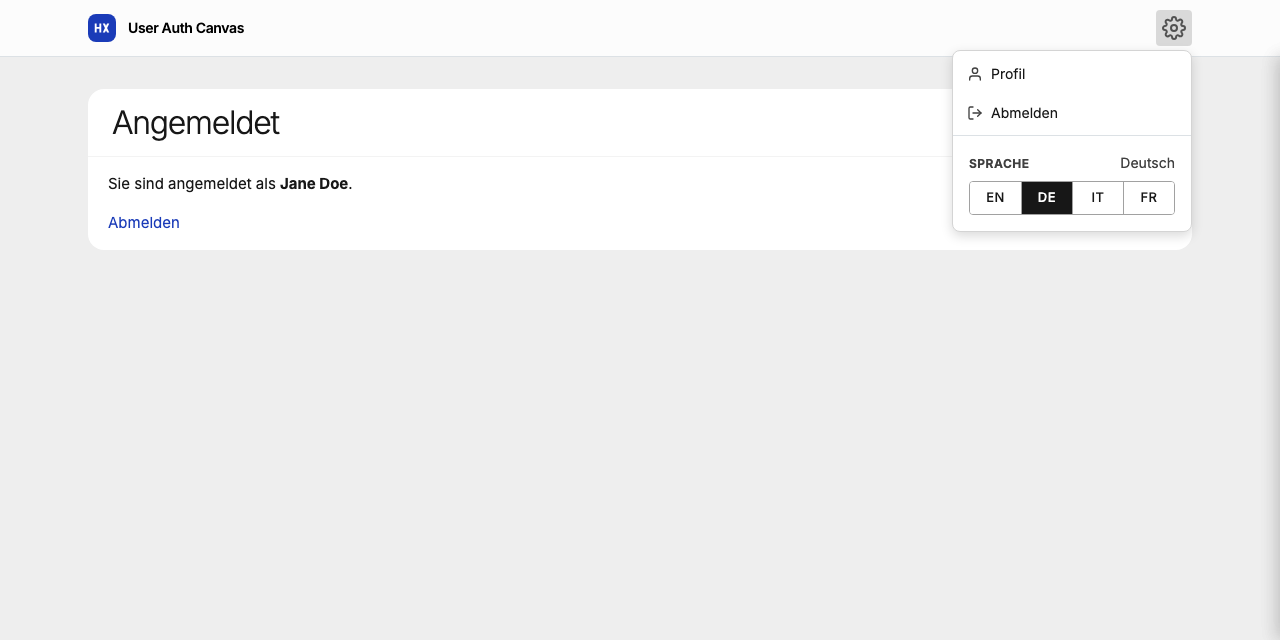
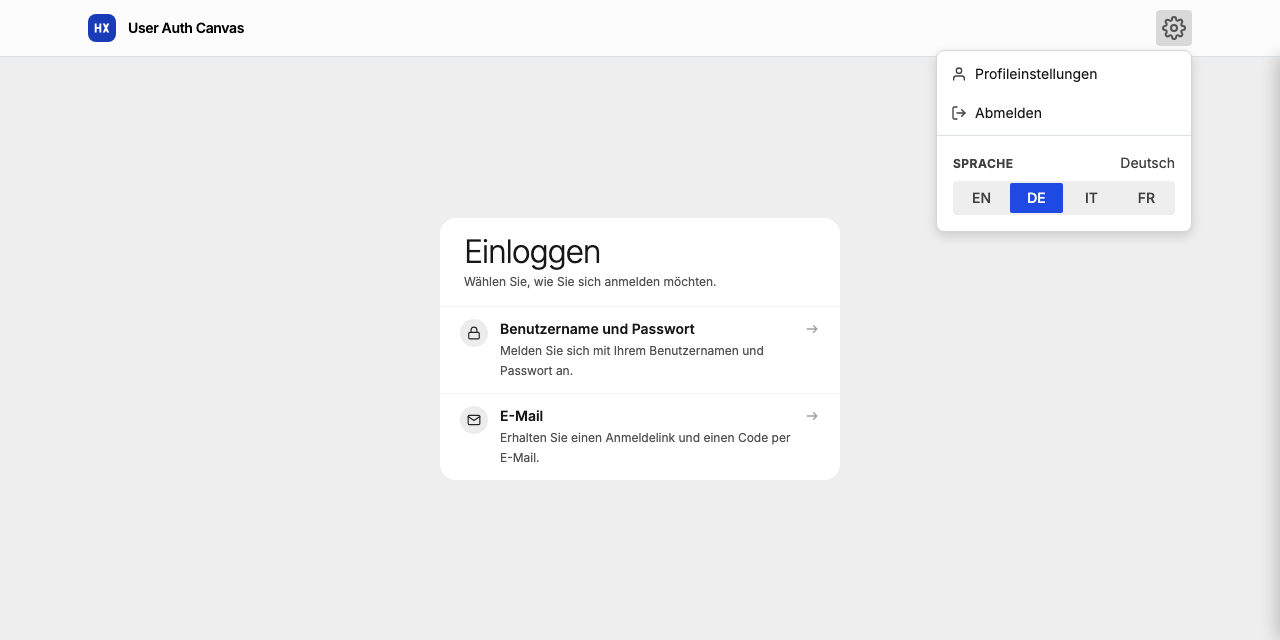
refactor(page-templates): language entry uses segment_control; plain link entries in the sample (T-005)

diff --git a/src/pyhx/static/css/pyhx/components/layout/settings-menu.css b/src/pyhx/static/css/pyhx/components/layout/settings-menu.css
@@ -72,7 +72,7 @@
     flex-direction: column;
 
     /* Box */
-    width: 15rem;
+    width: 16rem;
     border: var(--hx-border-width-sm) solid var(--hx-color-neutral-300);
     border-radius: var(--hx-radius-lg);
 
@@ -184,68 +184,6 @@
     }
 }
 
-/* The choices: a segmented row, one equal column per option. */
-.hx-settings-menu__choices {
-    /* Layout */
-    display: grid;
-    grid-auto-columns: minmax(0, 1fr);
-    grid-auto-flow: column;
-
-    /* Box */
-    margin: 0;
-    border: var(--hx-border-width-sm) solid var(--hx-color-neutral-400);
-    border-radius: var(--hx-radius-md);
-    overflow: hidden;
-
-    & > button {
-        /* Box */
-        width: auto;
-        height: 2rem;
-        margin: 0;
-        padding: 0;
-        border: 0;
-        border-left: var(--hx-border-width-sm) solid var(--hx-color-neutral-400);
-        border-radius: 0;
-
-        /* Typography */
-        font-size: 0.8125rem;
-        font-weight: 500;
-        letter-spacing: 0.04em;
-        color: var(--hx-color-text);
-
-        /* Visual */
-        background-color: var(--hx-color-background);
-        box-shadow: none;
-
-        /* Interaction */
-        cursor: pointer;
-
-        &:first-of-type {
-            /* Box */
-            border-left: 0;
-        }
-
-        &:hover {
-            /* Visual */
-            background-color: var(--hx-color-neutral-100);
-        }
-
-        &:focus-visible {
-            /* Visual */
-            outline: 2px solid var(--hx-color-primary-focus);
-            outline-offset: -2px;
-        }
-
-        &[aria-pressed="true"] {
-            /* Typography */
-            color: var(--hx-color-white);
-
-            /* Visual */
-            background-color: var(--hx-color-primary);
-        }
-    }
-}
-
 /* --- Responsive --- */
 
 /* On a phone the dropdown spans the width below the header. */
@@ -261,18 +199,5 @@
         width: auto;
         border-width: 0 0 var(--hx-border-width-sm);
         border-radius: 0;
-    }
-
-    .hx-settings-menu__choices > button {
-        /* Box */
-        height: 2.75rem;
-    }
-}
-
-/* Touch input: targets of at least 44px, also on larger screens. */
-@media (pointer: coarse) {
-    .hx-settings-menu__choices > button {
-        /* Box */
-        height: 2.75rem;
     }
 }

diff --git a/src/pyhx/static/css/page-templates/canvas-shell.css b/src/pyhx/static/css/page-templates/canvas-shell.css
@@ -99,12 +99,6 @@
             color: var(--hx-color-neutral-600);
         }
 
-        /* The current language like the active tab: near-black. */
-        .hx-settings-menu__choices > button[aria-pressed="true"] {
-            /* Visual */
-            background-color: var(--hx-color-neutral-900);
-        }
-
         .hx-canvas-shell__header-content {
             /* Layout */
             display: flex;

diff --git a/src/pyhx/static/css/page-templates/app-shell.css b/src/pyhx/static/css/page-templates/app-shell.css
@@ -184,7 +184,7 @@
         /* --- Menu button --- */
 
         /* Not the buttons inside the settings menu's dropdown: they are
-           styled by the menu itself. */
+           styled by their own components. */
         .hx-menu-button,
         & > header button:not(.hx-settings-menu__panel *),
         & > header a[role="button"] {

diff --git a/src/pyhx/page_templates/settings_menu.py b/src/pyhx/page_templates/settings_menu.py
@@ -7,6 +7,8 @@ from typing import Protocol
 import htpy as y
 
 from pyhx.components.primitives.icon import icon
+from pyhx.components.primitives.segment_control import segment_control
+from pyhx.components.view_model import Option
 from pyhx.core.primitives import IconName
 from pyhx.core.primitives.lazy_text import Text
 from pyhx.i18n import _, locale_switch
@@ -78,8 +80,9 @@ class LanguageSetting:
     """Settings entry: the language of the app.
 
     Shows the offered languages (``[app.pyhx.core] supported_locales``) as
-    codes (EN | DE | IT | FR), the current one highlighted and written out
-    above. Choosing one posts to ``/_pyhx/locale`` (see
+    codes (EN | DE | IT | FR) in a ``segment_control``, the current one
+    selected and written out above. Choosing one posts to ``/_pyhx/locale``
+    (htmx, on change) (see
     :func:`pyhx.i18n.locale_switch`), which stores it in the session and, for
     a signed-in registered user, on the user, then reloads the page.
 
@@ -99,23 +102,21 @@ class LanguageSetting:
                 y.span[current],
             ],
             y.form(
-                ".hx-settings-menu__choices",
                 method="post",
                 action=switch.action,
                 hx_post=switch.action,
+                hx_trigger="change",
             )[
                 y.input(type="hidden", name="next", value=switch.next),
-                [
-                    y.button(
-                        type="submit",
-                        name="locale",
-                        value=option.locale,
-                        lang=option.locale,
-                        title=option.name,
-                        aria_pressed="true" if option.current else "false",
-                    )[option.locale.split("-")[0].upper()]
-                    for option in switch.options
-                ],
+                segment_control(
+                    "locale",
+                    [
+                        Option(label=o.locale.split("-")[0].upper(), value=o.locale)
+                        for o in switch.options
+                    ],
+                    value=next((o.locale for o in switch.options if o.current), None),
+                    aria_labelledby="hx-settings-language",
+                ),
             ],
         ]
 

diff --git a/samples/user_auth/main.py b/samples/user_auth/main.py
@@ -25,8 +25,8 @@ of a request is the one chosen in the session, else the signed-in user's,
 else the browser's, else English. Try it:
 
 - As an anonymous visitor, switch the language in the settings menu (the gear
-  in the header: ``settings=[account_links, LanguageSetting()]``; the account
-  links, Profile and Sign out, appear once signed in): it is
+  in the header: ``settings=[ACCOUNT_LINKS, LanguageSetting()]``, with plain
+  link entries above the language): it is
   kept in the session only (open a private window: English or your browser's
   language again).
 - Sign in as ``jane`` and switch: the language is also stored on the user, so
@@ -105,18 +105,16 @@ def _build_users_repo() -> SQLUsersRepository:
 users = _build_users_repo()
 
 
-def account_links() -> y.Node:
-    """Settings entry of the sample: profile and sign-out, for signed-in users only."""
-    if isinstance(require_user(), AnonymousUser):
-        return None
-    return SettingsLinks(
-        SettingsLink(_l("Profile"), "/profile", icon="user"),
-        SettingsLink(_l("Sign out"), "/logout", icon="log-out"),
-    )()
+# Plain menu entries above the language (no functionality of their own:
+# "Profile settings" opens the profile page, "Sign out" signs out).
+ACCOUNT_LINKS = SettingsLinks(
+    SettingsLink(_l("Profile settings"), "/profile", icon="user"),
+    SettingsLink(_l("Sign out"), "/logout", icon="log-out"),
+)
 
 
 # The settings menu (gear in the header): account links above the language.
-SETTINGS = [account_links, LanguageSetting()]
+SETTINGS = [ACCOUNT_LINKS, LanguageSetting()]
 
 hx = WebApp(
     title="User Auth Sample",

diff --git a/tests/pyhx/page_templates/test_settings_menu.py b/tests/pyhx/page_templates/test_settings_menu.py
@@ -63,15 +63,13 @@ class TestSettingsMenu:
         assert 'aria-label="Einstellungen"' in page
         assert '<h2 id="hx-settings-language">Sprache</h2><span>Deutsch</span>' in page
         assert 'action="/_pyhx/locale"' in page and 'name="next" value="/"' in page
-        for code, name in (
-            ("en", "English"),
-            ("de", "Deutsch"),
-            ("it", "Italiano"),
-            ("fr", "Français"),
-        ):
-            assert f'value="{code}" lang="{code}" title="{name}"' in page
-        assert page.count('aria-pressed="true"') == 1
-        assert 'aria-pressed="true">DE</button>' in page
+        assert 'hx-trigger="change"' in page
+        assert "hx-segment-control--md" in page
+        assert 'aria-labelledby="hx-settings-language"' in page
+        for code in ("en", "de", "it", "fr"):
+            assert f'name="locale" value="{code}"' in page
+        assert page.count(" checked") == 1
+        assert 'value="de" checked><span>DE</span>' in page
 
     @pytest.mark.parametrize("make", TEMPLATES)
     def test_no_gear_without_settings(self, make):

diff --git a/tests/samples/user_auth/test_user_auth_languages.py b/tests/samples/user_auth/test_user_auth_languages.py
@@ -63,9 +63,8 @@ class TestAnonymous:
     def test_switcher_is_on_the_page(self):
         page = browser().get("/").text
 
-        assert all(
-            name in page for name in ("English", "Deutsch", "Italiano", "Français")
-        )
+        assert all(f"<span>{code}</span>" in page for code in ("EN", "DE", "IT", "FR"))
+        assert "Profile settings" in page
 
 
 class TestSignedIn:

diff --git a/changes/03--closed/T-005--multilingual-apps/spec.md b/changes/03--closed/T-005--multilingual-apps/spec.md
@@ -87,7 +87,7 @@ Implemented as specified, with these deviations and findings (from the plan, rem
 - **D3** Component parameters with English defaults default to `None` and get the translated default at render time (Boolean controls, taglist, dropdown and file dropzone placeholders, `drawer_action_table` title, `page_header` navigation label); `DataForm.submit_label` and the `DataFormDrawer` labels also accept a callable; the internal option tuples of `filter_options.py` became functions. Explicit values behave as before.
 - **D4** `safe_next` (now in `_session.py`, shared by login and switcher) also rejects `/\…`, which browsers read as a protocol-relative URL; this also closes it for the login redirect.
 - **D5** No switcher component: in the developer's review, a ready-made button row (`c.locale_switcher()`) was replaced by the headless `pyhx.i18n.locale_switch()`, since apps render the switcher in their own design; the sample builds its own buttons on it.
-- **D6** `AppShell` and `CanvasShell` get a settings menu (`settings=`, default `(LanguageSetting(),)`): a gear in the header opening a `<details>` dropdown, one section per entry; `LanguageSetting` shows the languages as codes (EN | DE | IT | FR) on top of `locale_switch()`; `SettingsLinks(SettingsLink(label, href, icon))` adds plain menu entries (the sample shows Profile and Sign out above the language). It replaces the AppShell's settings button, which did nothing, and is left out without a session, with one language or with `settings=()`. Designed in the developer's review (design canvas "pyhx Settings Menu"); screenshots in `screenshots/`.
+- **D6** `AppShell` and `CanvasShell` get a settings menu (`settings=`, default `(LanguageSetting(),)`): a gear in the header opening a `<details>` dropdown, one section per entry; `LanguageSetting` shows the languages as codes (EN | DE | IT | FR) in the existing `segment_control` (normal size), on top of `locale_switch()`, and submits on change (htmx); `SettingsLinks(SettingsLink(label, href, icon))` adds plain menu entries (the sample shows Profile and Sign out above the language). It replaces the AppShell's settings button, which did nothing, and is left out without a session, with one language or with `settings=()`. Designed in the developer's review (design canvas "pyhx Settings Menu"); screenshots in `screenshots/`.
 - **F1** The change was started as T-004; the parallel change "login secondary links" was merged as T-004 first, so this one is T-005.
 - **F2** pyhx's texts: about 160 marked in 27 files, 123 entries per catalog (de, it, fr), translated with an LLM; "Sign in" and "Sign In" both exist as source texts (different buttons, same translations).
 - **F3** Catalog files are part of the wheel (checked with `poetry build`); `poe check` runs the catalog check for pyhx and for the sample.

diff --git a/docs/guides/i18n.md b/docs/guides/i18n.md
@@ -102,7 +102,7 @@ After `update`, the new entries are empty. An LLM translates them well when it g
 
 ## Switching the language
 
-`AppShell` and `CanvasShell` have a settings menu: a gear in the header (in the `CanvasShell` right of `header_content`) opening a dropdown. Its default entry is the language: the offered languages as codes (`EN | DE | IT | FR`), the current one highlighted and written out ("Deutsch"). It shows when the app offers more than one language and has a session (the user authentication addon), also on the login pages; on a phone the dropdown spans the width below the header.
+`AppShell` and `CanvasShell` have a settings menu: a gear in the header (in the `CanvasShell` right of `header_content`) opening a dropdown. Its default entry is the language: the offered languages as codes (`EN | DE | IT | FR`) in a `segment_control`, the current one selected and written out ("Deutsch"); choosing one submits right away (htmx). It shows when the app offers more than one language and has a session (the user authentication addon), also on the login pages; on a phone the dropdown spans the width below the header.
 
 Choosing a language posts to `/_pyhx/locale`, which:
 
